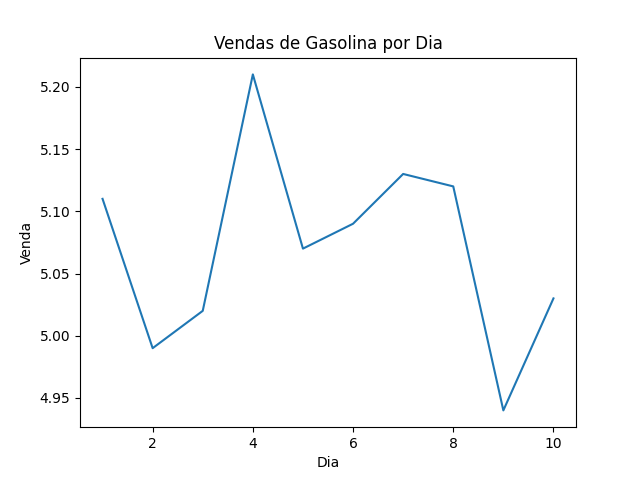
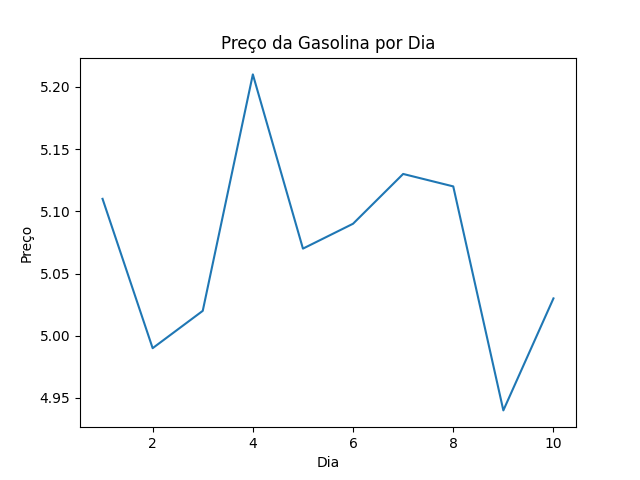
arquivos gasolina.py e gasolina.png modificados

Changed region(s): [[0.3438, 0.0625, 0.6875, 0.125], [0.0312, 0.4688, 0.0625, 0.5625]]

diff --git a/gasolina.py b/gasolina.py
@@ -9,9 +9,9 @@ df_gasolina.head()
 
 # Gerar gráfico de linha
 chart = sns.lineplot(data=df_gasolina, x='dia', y='venda')
-chart.set_title('Vendas de Gasolina por Dia')
+chart.set_title('Preço da Gasolina por Dia')
 chart.set_xlabel('Dia')
-chart.set_ylabel('Venda')  
+chart.set_ylabel('Preço')  
 
 # Salvar o gráfico como PNG
 plt.savefig('gasolina.png', format='png')
